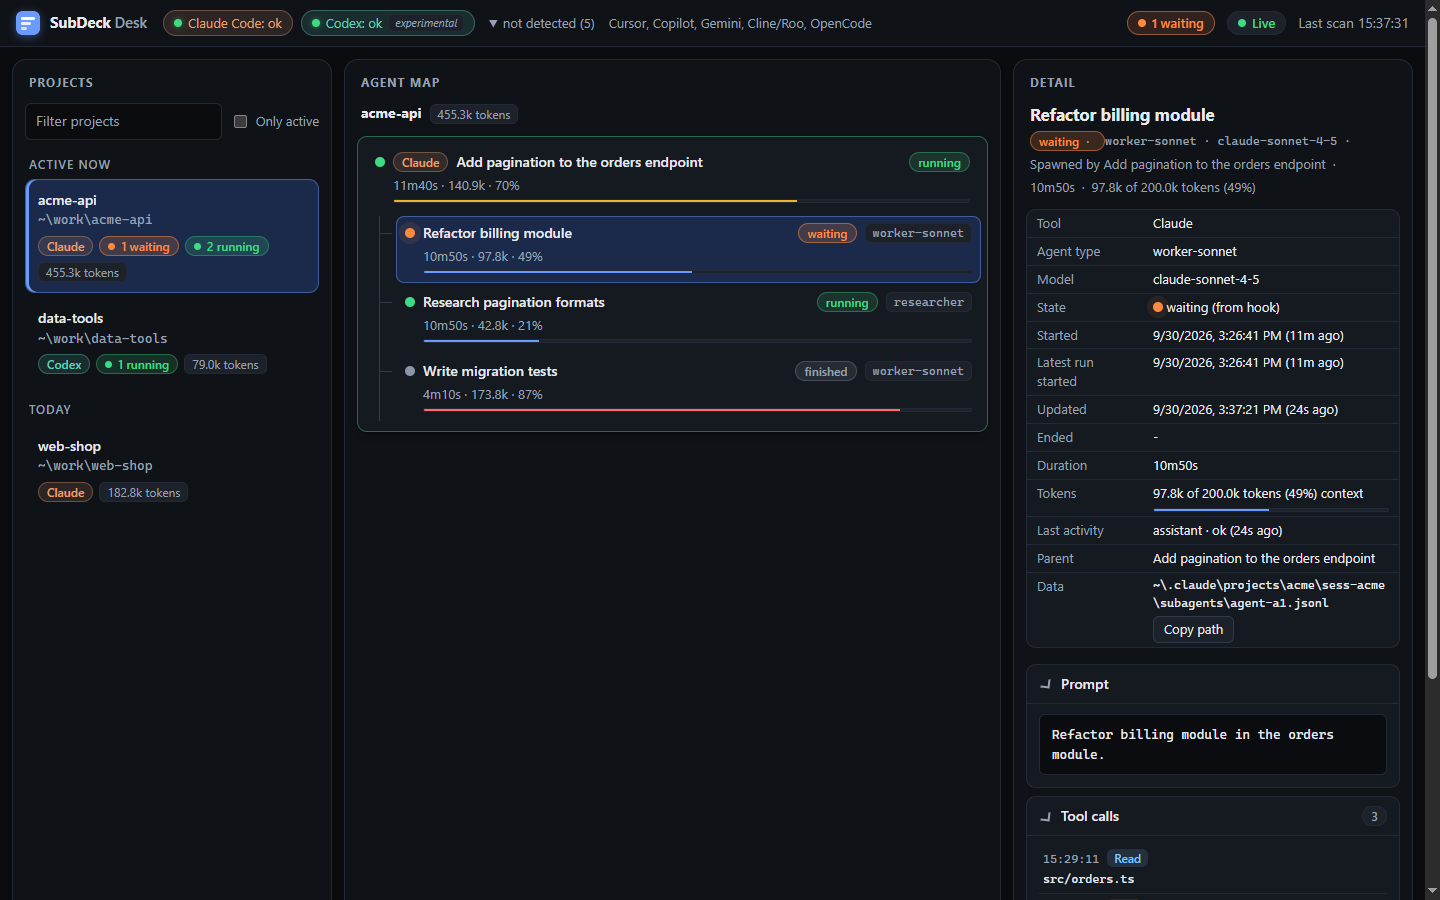
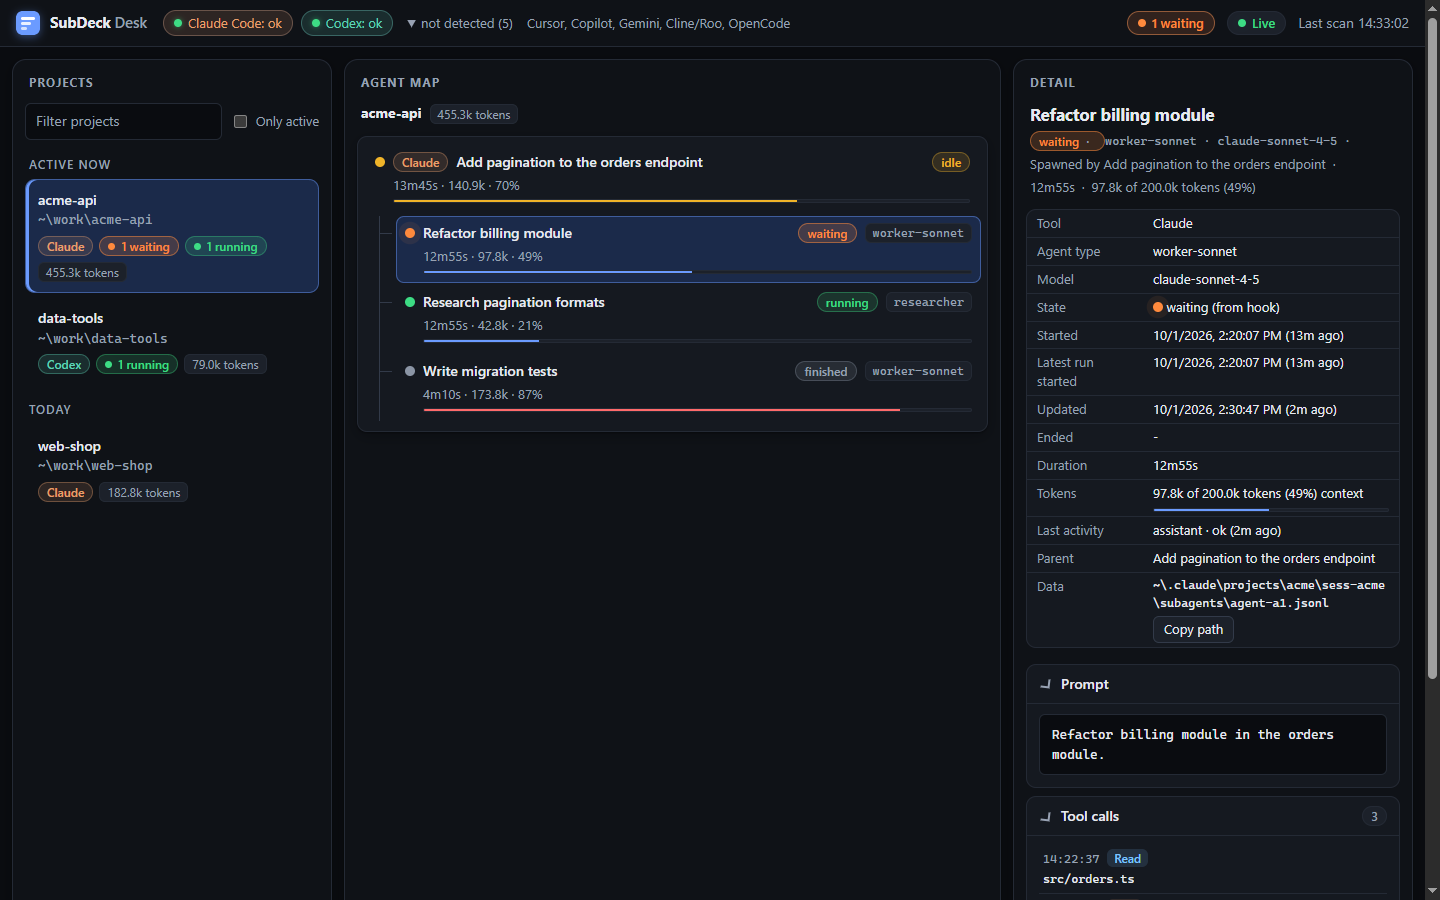
desk: drop visible experimental label (tooltip instead); docs and screenshots; version 0.4.2

diff --git a/desk/public/app.js b/desk/public/app.js
@@ -32,7 +32,7 @@ function updateWaiting() {
 function toolBadge(tool) {
   const b = el('span', `badge tool tool-${tool}`, TOOL_BADGE[tool] || tool);
   const src = S.sources.find(x => x.id === tool);
-  if (src && src.experimental) b.title = `${src.label}: experimental support (parts of this tool's data format are unverified)`;
+  if (src && src.experimental) { const t = `${src.label}: data format not yet verified on every platform`; b.title = t; b.setAttribute('aria-label', `${TOOL_BADGE[tool] || tool}. ${t}`); }
   return b;
 }
 
@@ -70,9 +70,9 @@ function renderSources() {
   for (const s of S.sources.filter(x => x.detected)) {
     const b = el('span', `badge src ${s.health} tool-${s.id}`);
     b.append(document.createTextNode(`${s.label}: ${s.health}`));
-    if (s.experimental) b.append(el('span', 'tag exp', 'experimental'));
-    const extra = [s.experimental ? "Experimental adapter: some of this tool's data format is unverified" : '', s.lastError || ''].filter(Boolean);
+    const extra = [s.experimental ? `${s.label}: data format not yet verified on every platform` : '', s.lastError || ''].filter(Boolean);
     b.title = [`${s.counts.projects} projects, ${s.counts.sessions} sessions, ${s.counts.running} running${s.counts.waiting ? `, ${s.counts.waiting} waiting` : ''}`, ...extra].join('\n');
+    b.setAttribute('aria-label', b.title.split('\n').join('. '));
     box.append(b);
   }
   const absent = S.sources.filter(x => !x.detected);

diff --git a/desk/public/style.css b/desk/public/style.css
@@ -46,7 +46,6 @@ h1, h2, h3 { font-weight: 650; }
 .badge.ok::before { background: var(--running); box-shadow: 0 0 6px color-mix(in srgb, var(--running) 60%, transparent); }
 .badge.degraded::before { background: var(--idle); }
 .badge.error::before { background: var(--failed); }
-.tag.exp { font-size: 11px; line-height: 16px; padding: 0 6px; font-style: italic; }
 .absent-sources { font-size: 13px; color: var(--muted); }
 .absent-sources summary { cursor: pointer; padding: 2px 6px; }
 .absent-sources[open] { display: flex; gap: var(--s2); align-items: center; }

diff --git a/desk/README.md b/desk/README.md
@@ -20,13 +20,13 @@ node desk/server.mjs [--port N] [--days N] [--open] [--no-content]
 |---|---|---|
 | Claude Code | `~/.claude/projects/` transcripts, plus `.subdeck/` hook events | Sub-agents are read from `subagents/`. The model column shows the real id from the last assistant record. |
 | Cursor | `state.vscdb` under the Cursor user directory | Opened read-only; retried when Cursor holds a lock. |
-| Codex (experimental) | `$CODEX_HOME` (default `~/.codex`): `state_N.sqlite` index and `sessions/` rollout files | Needs Node 22.13+. Rollout event names and sub-agent status values are unverified. |
-| Copilot (experimental) | CLI: `$COPILOT_HOME/session-state` (default `~/.copilot`); VS Code Chat: `chatSessions` under the VS Code user directory | A live `inuse` lock file marks running CLI sessions (state source `lock`). VS Code Chat gives title, times and request count only. |
-| Gemini CLI (experimental) | `$GEMINI_CLI_HOME/.gemini/tmp/<project>/chats/` (default `~/.gemini`) | Sub-agent parent links are inferred. |
-| Cline/Roo (experimental) | `globalStorage` of the Cline and Roo extensions in VS Code family editors | Title is the first task text. Roo child tasks link to their parent. |
-| OpenCode (experimental) | `$XDG_DATA_HOME/opencode` (default `~/.local/share/opencode`): `opencode.db`, older `storage/` | Needs Node 22.13+ for the database. |
+| Codex | `$CODEX_HOME` (default `~/.codex`): `state_N.sqlite` index and `sessions/` rollout files | Needs Node 22.13+. Rollout event names and sub-agent status values are unverified. |
+| Copilot | CLI: `$COPILOT_HOME/session-state` (default `~/.copilot`); VS Code Chat: `chatSessions` under the VS Code user directory | A live `inuse` lock file marks running CLI sessions (state source `lock`). VS Code Chat gives title, times and request count only. |
+| Gemini CLI | `$GEMINI_CLI_HOME/.gemini/tmp/<project>/chats/` (default `~/.gemini`) | Sub-agent parent links are inferred. |
+| Cline/Roo | `globalStorage` of the Cline and Roo extensions in VS Code family editors | Title is the first task text. Roo child tasks link to their parent. |
+| OpenCode | `$XDG_DATA_HOME/opencode` (default `~/.local/share/opencode`): `opencode.db`, older `storage/` | Needs Node 22.13+ for the database. |
 
-Tools that are not installed are hidden in the UI header (listed under a collapsed "not detected" hint). Experimental adapters carry an `experimental` flag in `/api/sources` and an "experimental" tag in the UI.
+Tools that are not installed are hidden in the UI header (listed under a collapsed "not detected" hint). Newer adapters (Codex, Copilot, Gemini CLI, Cline/Roo, OpenCode) carry an `experimental` flag in `/api/sources`; the UI shows no label for it, only a tooltip on the header badge ("data format not yet verified on every platform").
 
 Tool colours: Claude orange, Cursor blue, Codex teal, Copilot violet, Gemini pink, Cline/Roo yellow, OpenCode green.
 

diff --git a/README.md b/README.md
@@ -7,7 +7,7 @@
 [![GitHub](https://img.shields.io/badge/GitHub-emiirhandemirci-181717?logo=github&logoColor=white)](https://github.com/emiirhandemirci)
 [![LinkedIn](https://img.shields.io/badge/LinkedIn-Emirhan_Demirci-0A66C2?logo=linkedin&logoColor=white)](https://www.linkedin.com/in/emirhan-demirci-/)
 
-![version](https://img.shields.io/badge/version-0.4.1-6366f1)
+![version](https://img.shields.io/badge/version-0.4.2-6366f1)
 ![node](https://img.shields.io/badge/node-%E2%89%A5%2022.13-339933?logo=nodedotjs&logoColor=white)
 ![plugin](https://img.shields.io/badge/Claude_Code-plugin-d97757)
 ![deps](https://img.shields.io/badge/dependencies-zero-22c55e)
@@ -63,7 +63,7 @@ Restart Claude Code, then try `/subdeck:status` or `/subdeck:desk`.
   </picture>
 </p>
 
-Projects on the left, the agent tree in the middle, details on the right. Start it with `/subdeck:desk` or `node desk/server.mjs`. Claude Code and Cursor are supported; Codex, Copilot (CLI and VS Code Chat), Gemini CLI, Cline/Roo and OpenCode are **experimental** (marked in the header). Sessions that are blocked on you (permission prompt, question, plan approval) show as **waiting** and sort first. Each session shows a context-usage bar and each project its token total (tokens, not cost); paths use `~`. Details in [desk/README.md](desk/README.md).
+Projects on the left, the agent tree in the middle, details on the right. Start it with `/subdeck:desk` or `node desk/server.mjs`. Claude Code and Cursor are supported; Codex, Copilot (CLI and VS Code Chat), Gemini CLI, Cline/Roo and OpenCode support is newer and some data formats are not yet verified on every platform (hover a header badge for details). Sessions that are blocked on you (permission prompt, question, plan approval) show as **waiting** and sort first. Each session shows a context-usage bar and each project its token total (tokens, not cost); paths use `~`. Details in [desk/README.md](desk/README.md).
 
 <details>
 <summary><b>Agent detail</b>: prompt, tool calls, final report</summary>

diff --git a/docs/USER_GUIDE.md b/docs/USER_GUIDE.md
@@ -67,7 +67,7 @@ Desk serves on `http://127.0.0.1:4917` by default (it falls back to 4918-4936 if
 
 **Open it in VS Code.** Command Palette, then "Simple Browser: Show", then paste `http://127.0.0.1:4917` (or the URL that `/subdeck:desk` printed).
 
-**Supported tools.** Claude Code and Cursor are supported. Codex, Copilot (CLI and VS Code Chat), Gemini CLI, Cline/Roo and OpenCode are **experimental**: they are marked "experimental" in the header, and some of their data formats are not verified on every platform. Tools that are not installed are hidden behind a collapsed "not detected" hint. Each tool has its own badge colour.
+**Supported tools.** Claude Code and Cursor are supported. Codex, Copilot (CLI and VS Code Chat), Gemini CLI, Cline/Roo and OpenCode support is newer; some of their data formats are not yet verified on every platform. Hover a tool badge in the header for details. Tools that are not installed are hidden behind a collapsed "not detected" hint. Each tool has its own badge colour.
 
 | Tool | "Running" means |
 |---|---|
